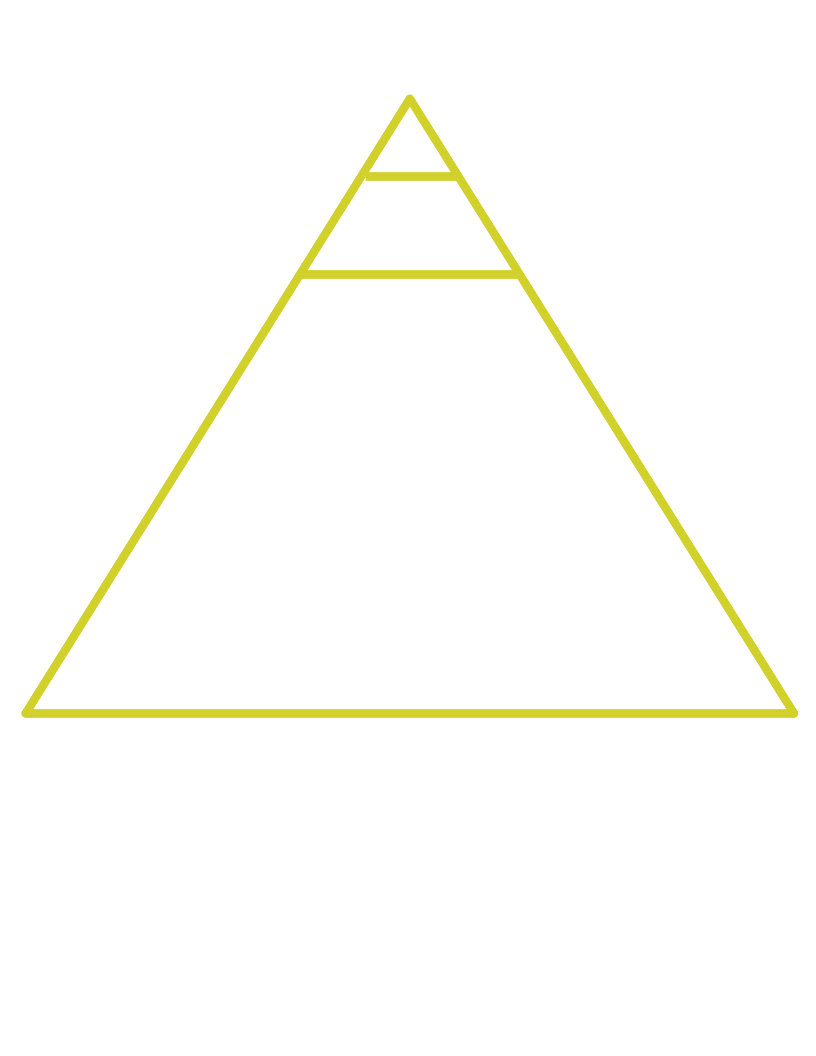
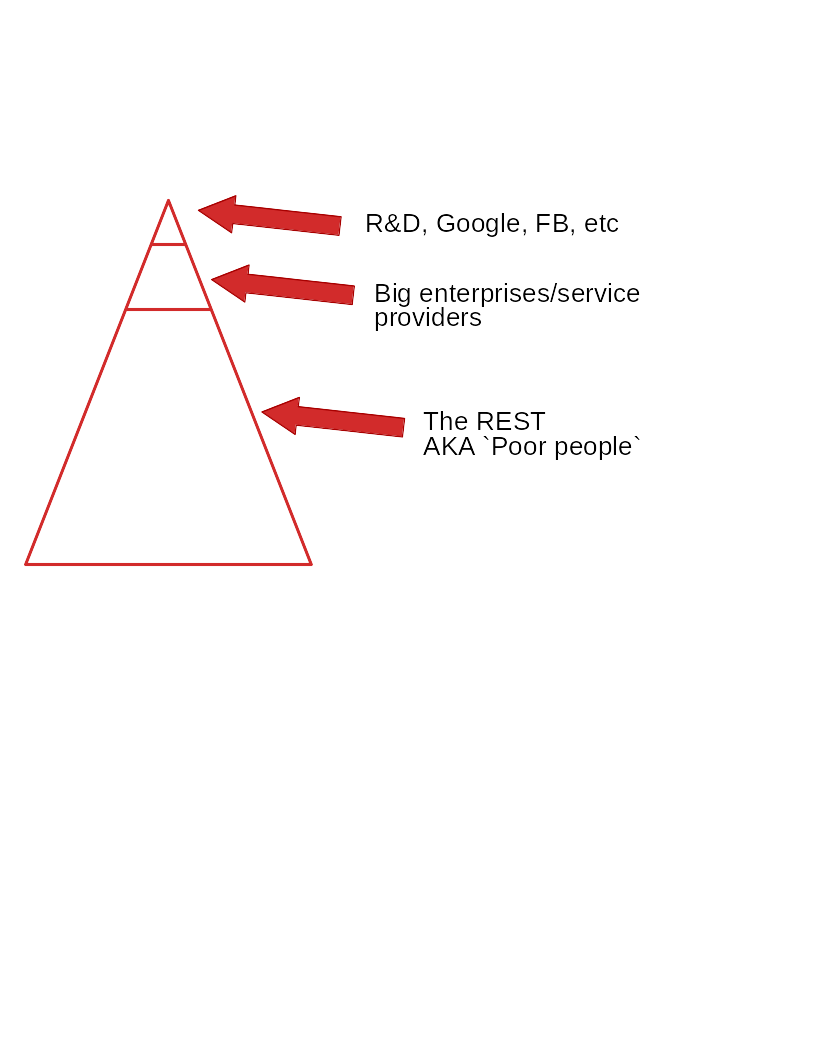
Add some slides

diff --git a/PITCHME.md b/PITCHME.md
@@ -2,7 +2,21 @@
 #### ibrahim menem SRE @CARTO
 ##### @ibrahimmenem
 
-+++
+---
 ## the SDN pyramid 
-![the SDN pyramid ](assets/pyramid.png)
+![the SDN pyramid](assets/pyramid.png)
++++
+![poor people](http://gph.is/23gj6RL)
 
+---
+
+### Ansible to the rescue
+
+- Many people don't know about Ansible's network modules:
+there is a module for almost any network device you can buy
+- Many improvements after Ansible 2.3 (persistent SSH, pass credentials via the command line)
+
+### What do I need to use Ansible with Network devices
+- remember to use connection: local
+- ssh access to the network devices
+- your boss and security people are happy with your work
